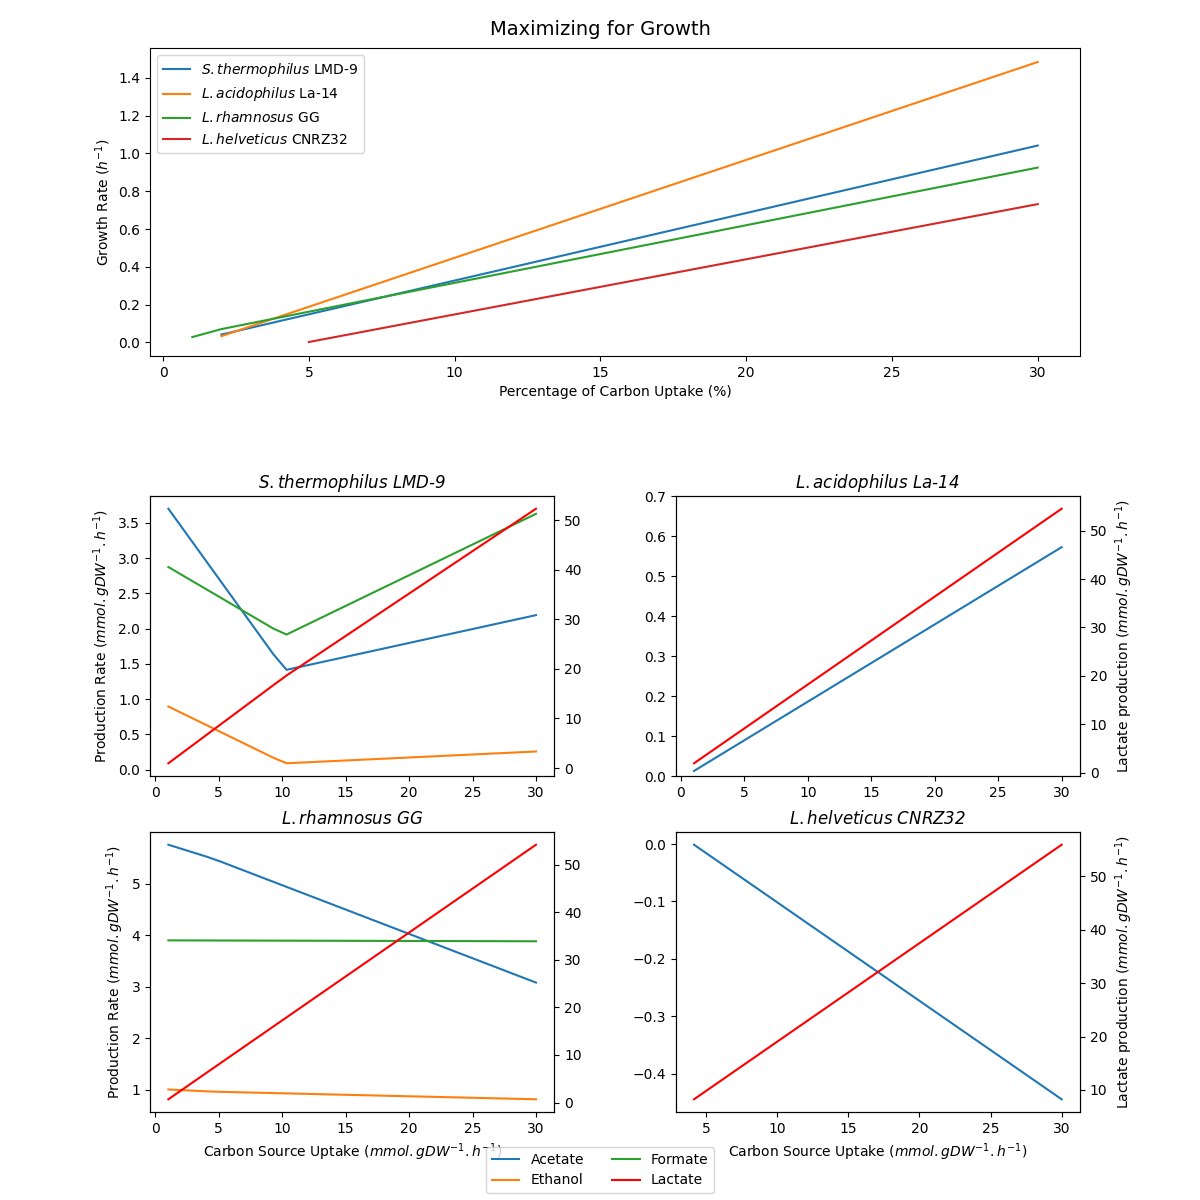
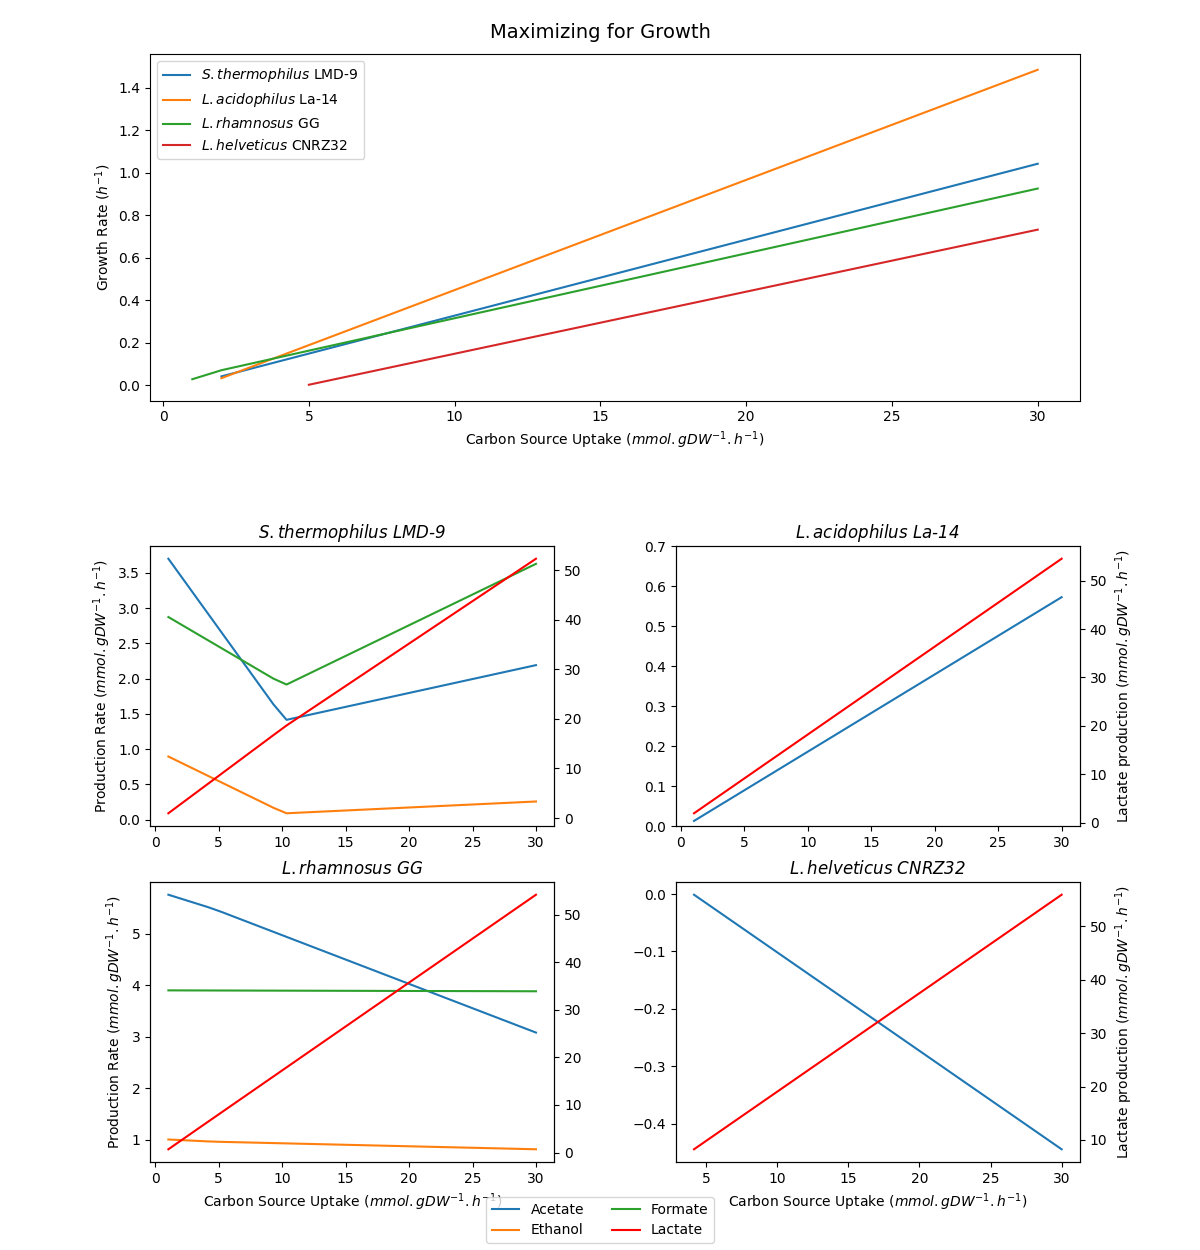
Correction of axis labels (maximizing for growth); change order ofrobustness plots

diff --git a/plot_generator.py b/plot_generator.py
@@ -9,17 +9,17 @@ if __name__ == "__main__":
     _plots_directory = r"C:\Users\Bisbii\OneDrive - Universidade do Minho\Python scripts\LAB__git\lab_models\plots_plt/"
 
 #### Connectivity
-    connectivity_pie(directory=_results_directory,
-                     directory_to_save = _plots_directory,
-                     column_x='Unnamed: 0',
-                     column_y="sum",
-                     filename="Connectivity",
-                     title='Connectivity Analysis'
-                     )
+    # connectivity_pie(directory=_results_directory,
+    #                  directory_to_save = _plots_directory,
+    #                  column_x='Unnamed: 0',
+    #                  column_y="sum",
+    #                  filename="Connectivity",
+    #                  title='Connectivity Analysis'
+    #                  )
 
     ##### Robustness
     # dataframes = read_results(_results_directory + "results_production_robustness_analysis" + ".xlsx")
-    # compounds =  ['EX_lac__L_e', 'EX_ac_e', 'EX_etoh_e', 'EX_for_e','EX_fum_e', 'EX_succ_e','EX_acald_e','EX_alac__S_e', 'EX_diact_e', 'EX_actn__R_e']
+    # compounds =  ['EX_lac__L_e', 'EX_ac_e',  'EX_for_e','EX_etoh_e','EX_acald_e', 'EX_fum_e','EX_succ_e','EX_alac__S_e', 'EX_diact_e', 'EX_actn__R_e']
     # dataframes = dataframes_for_robustness(dataframes,compounds)
     # cols = [ (compounds), ('0.0','5.0'), ('Sth', 'La', 'Lr', 'Lh')]
     # cols = get_column_name(cols)
@@ -34,7 +34,7 @@ if __name__ == "__main__":
     #           figsize=(12,16),
     #           subplots_number = (5,2) ,
     #           title='Robustness Analysis',
-    #           titles = ['Lactate', 'Acetate', "Ethanol", 'Formate', 'Fumarate', 'Succinate', 'Acetaldehyde','Acetolactate', 'Diacetyl', 'Acetoin'],
+    #           titles = ['Lactate', 'Acetate',  'Formate',"Ethanol", 'Acetaldehyde', 'Fumarate', 'Succinate','Acetolactate', 'Diacetyl', 'Acetoin'],
     #           group_by = (['blue','green','red','black','blue','green','red','black'],['-','-','-','-','--','--','--','--']),
     #           personalized_labels =  ['O2=0, ' +  r"$\it{S. thermophilus}$ LMD-9", 'O2=0, ' + "$\it{L. acidophilus}$ La-14", 'O2=0, ' + "$\it{L. rhamnosus}$ GG",'O2=0, ' +  "$\it{L. helveticus}$ CNRZ32",
     #                                   'O2=5, ' +  r"$\it{S. thermophilus}$ LMD-9", 'O2=5, ' + "$\it{L. acidophilus}$ La-14", 'O2=5, ' + "$\it{L. rhamnosus}$ GG",'O2=5, ' +  "$\it{L. helveticus}$ CNRZ32"],
@@ -51,12 +51,12 @@ if __name__ == "__main__":
               dataframes=dataframes,
               column_x="carbon_uptake",
               column_y=["Sth", "La", "Lr","Lh"],
-              x_label='Percentage of Carbon Uptake (%)',
+              x_label='Carbon Source Uptake ($mmol.gDW^{-1}.h^{-1}$)',
               ylabel='Growth Rate ($h^{-1}$)',
               subplots_number=1,
               title='Maximizing for Growth',
               titles=None,
-              figsize=(12,4),
+              figsize=(12,4.5),
               personalized_labels={'Sth':  r"$\it{S. thermophilus}$ LMD-9", 'La':"$\it{L. acidophilus}$ La-14", 'Lr': "$\it{L. rhamnosus}$ GG",'Lh':  "$\it{L. helveticus}$ CNRZ32" },
               )
 
@@ -84,7 +84,7 @@ if __name__ == "__main__":
     combine_images(directory=_plots_directory,
                    filename = "maximizing_for_growth",
                    filenames = ["growth_rate.png", "results_carbon_source_analysis.png"])
-
+    #
 
 
     # ##### Minimizing substrate uptake
@@ -102,7 +102,7 @@ if __name__ == "__main__":
     #           column_y_axis_2=["lac__L_e"],
     #           ylabel_axis2="Lactate production ($mmol.gDW^{-1}.h^{-1}$)",
     #           personalized_labels={'ac_e': 'Acetate', 'etoh_e': 'Ethanol', 'for_e': "Formate", "lac__L_e": 'Lactate'},
-    #           ylim={"La": (0, 1)}
+    #           ylim={"La": (0, 0.5)}
     #           )
 
     # # # #####

diff --git a/plots.py b/plots.py
@@ -316,10 +316,6 @@ def append_growth_rate(dataframes):
     return new_df
 
 
-
-
-
-
 def get_labels_by_order(old_labels, labels):
     res = []
     for lab in old_labels:
